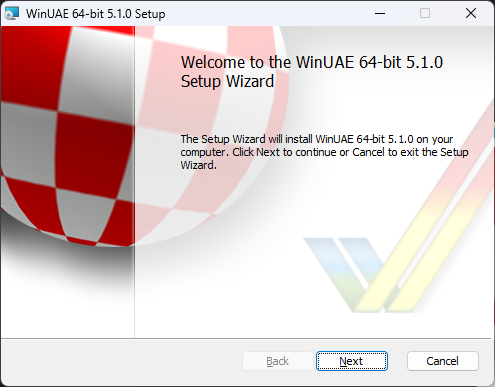
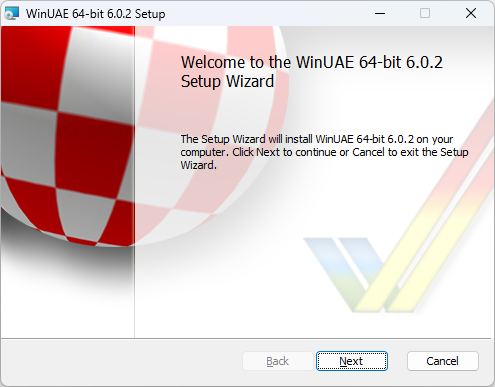
Update for WinUAE 6.0.2

diff --git a/gui/filter.htm b/gui/filter.htm
@@ -33,7 +33,9 @@
     <strong>Keep aspect ratio</strong> ensures that any filter will
     ensure display keeps its aspect ratio correct to avoid
     distortions.<br>
-    <strong>Monitor type</strong> can be Disabled, VGA or TV.</p>
+    <strong>Monitor type</strong> can be Disabled, VGA or TV.<br>
+    <strong>Always stretch NTSC mode</strong> expands the NTSC mode
+    to fit the window or screen.</p>
     <h1>Extra Settings</h1>
     <p><strong>Point/Bilinear</strong> can be specified, and ratios
     from 1:1 to 3:3 and from slider from 0 to 1.<br>

diff --git a/gui/host.htm b/gui/host.htm
@@ -7,7 +7,7 @@
 </head>
 <body>
   <article>
-    <img class="center" src="config.png" alt=
+    <img class="center" src="host.png" alt=
     "WinUAE - Configurations">
     <p>The Host section contains all host related settings.</p>
     <h1>Subsections</h1>
